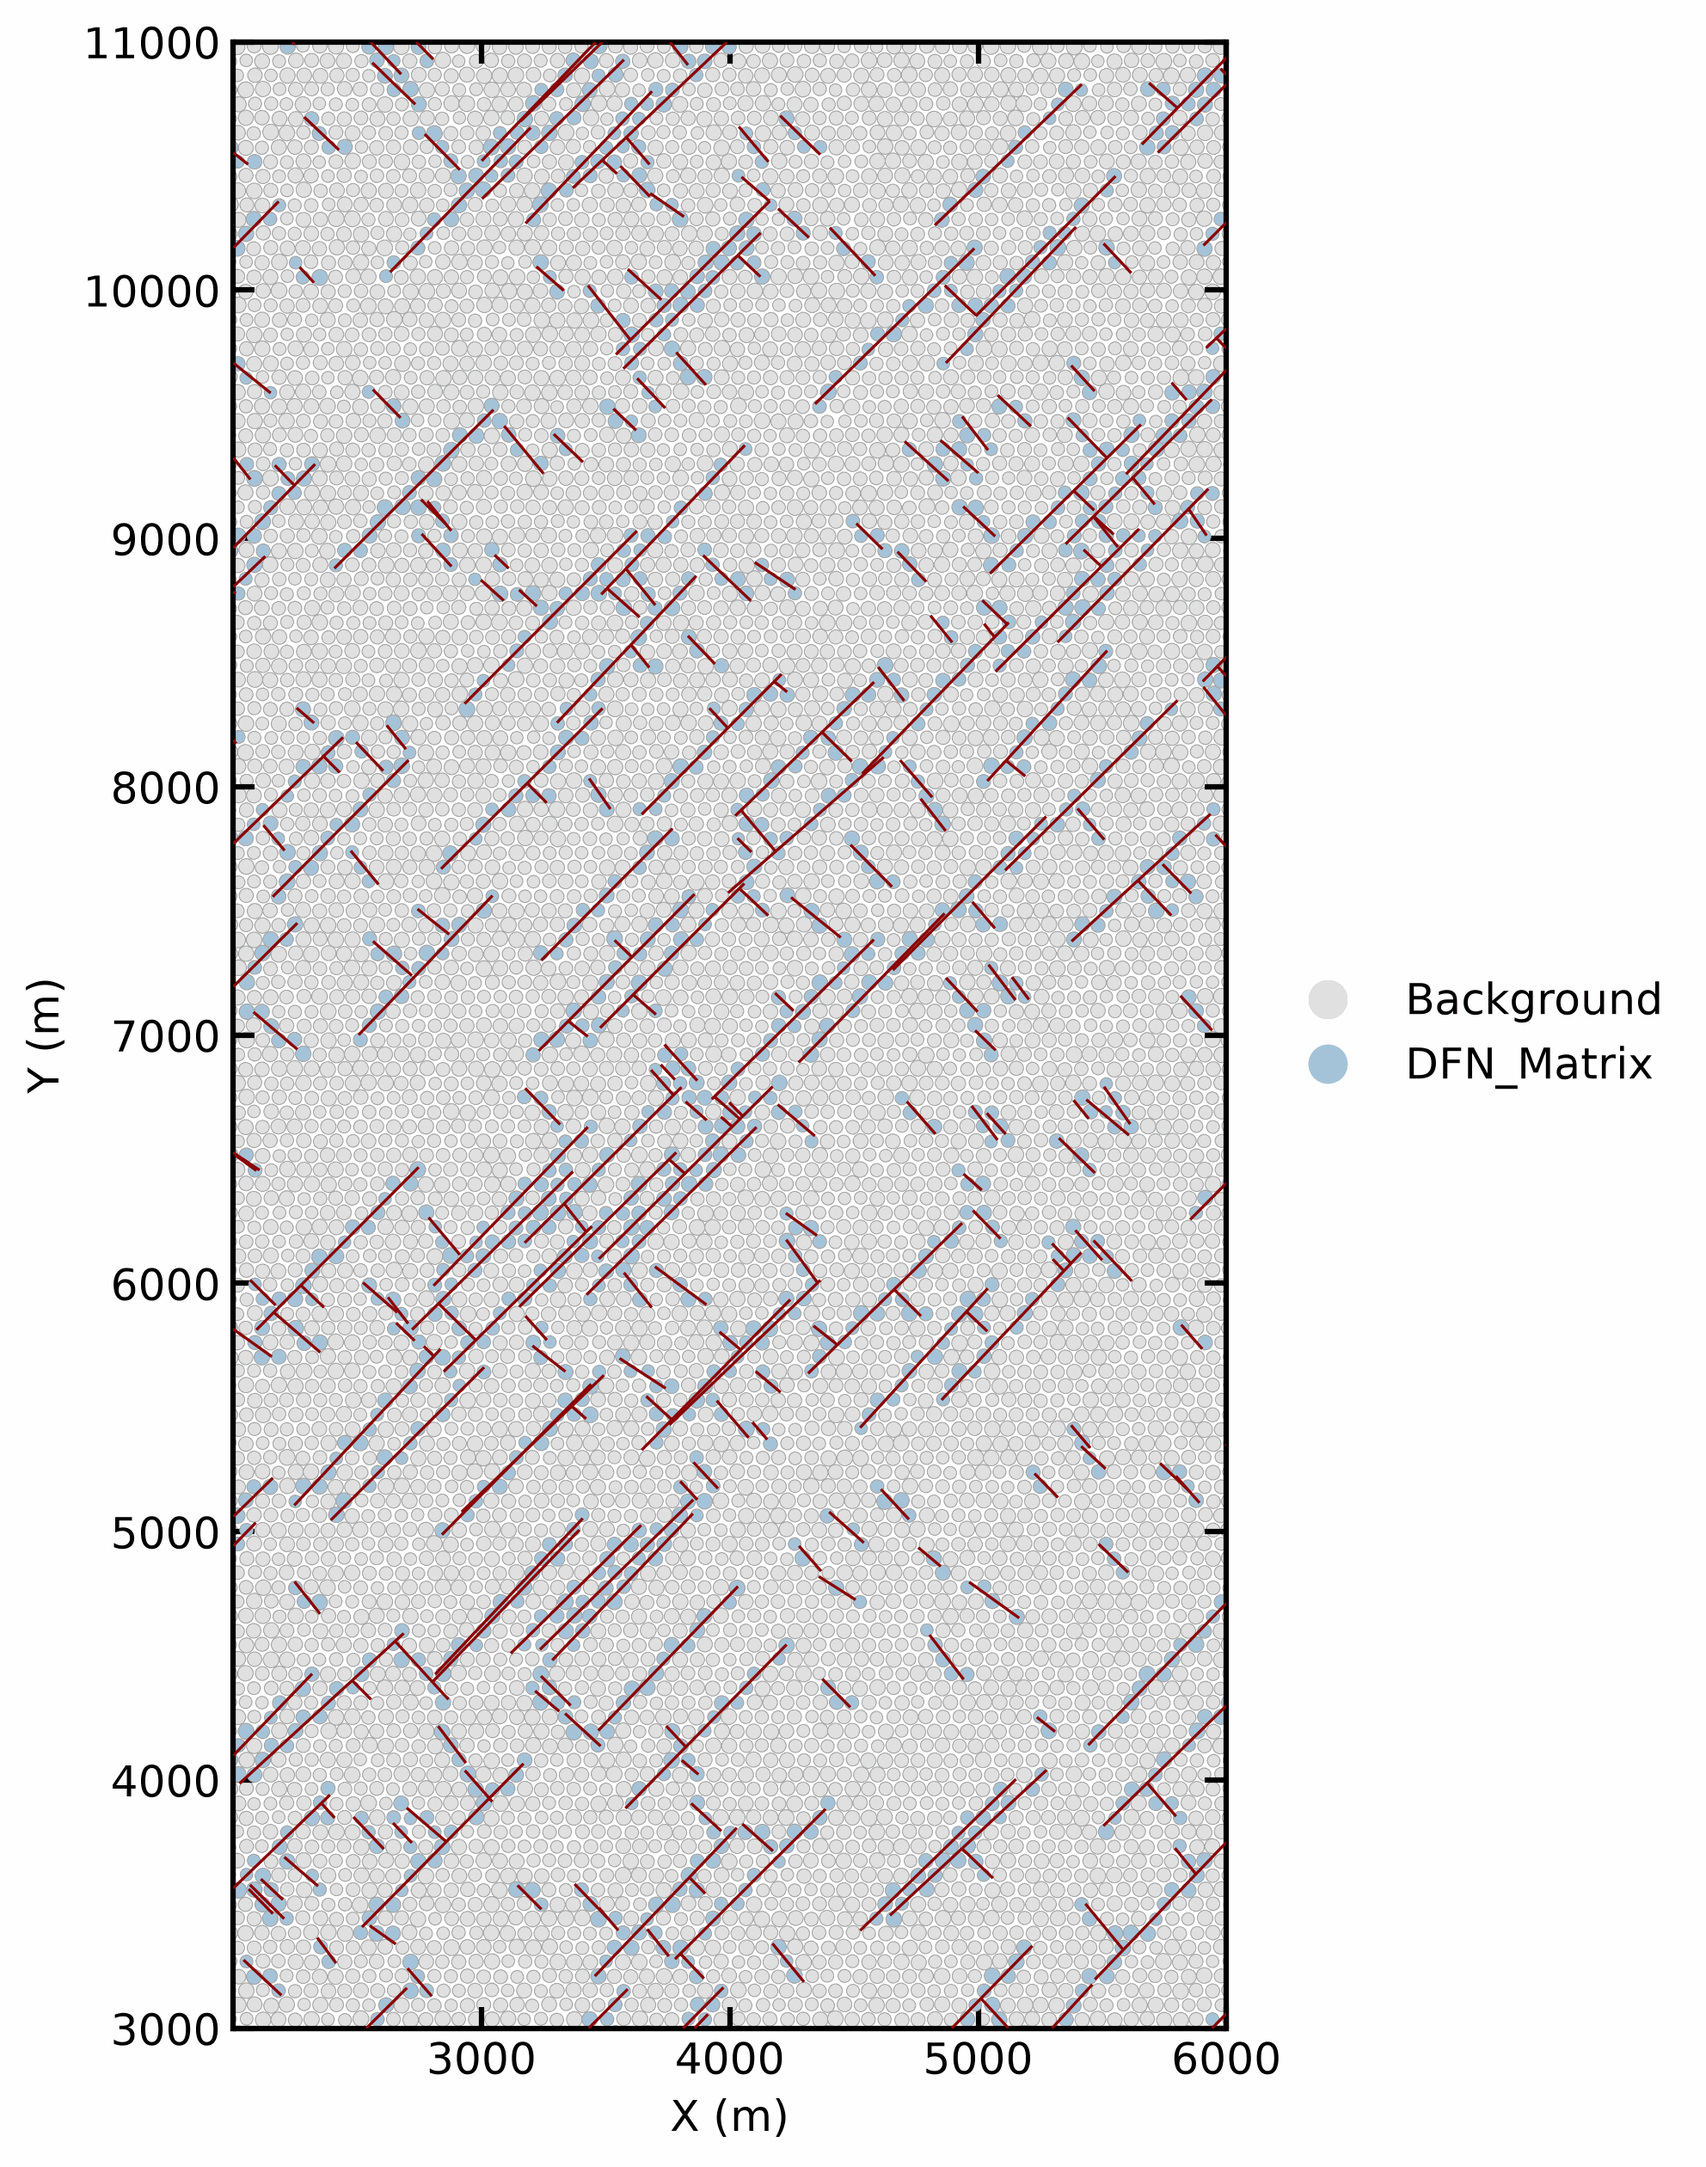
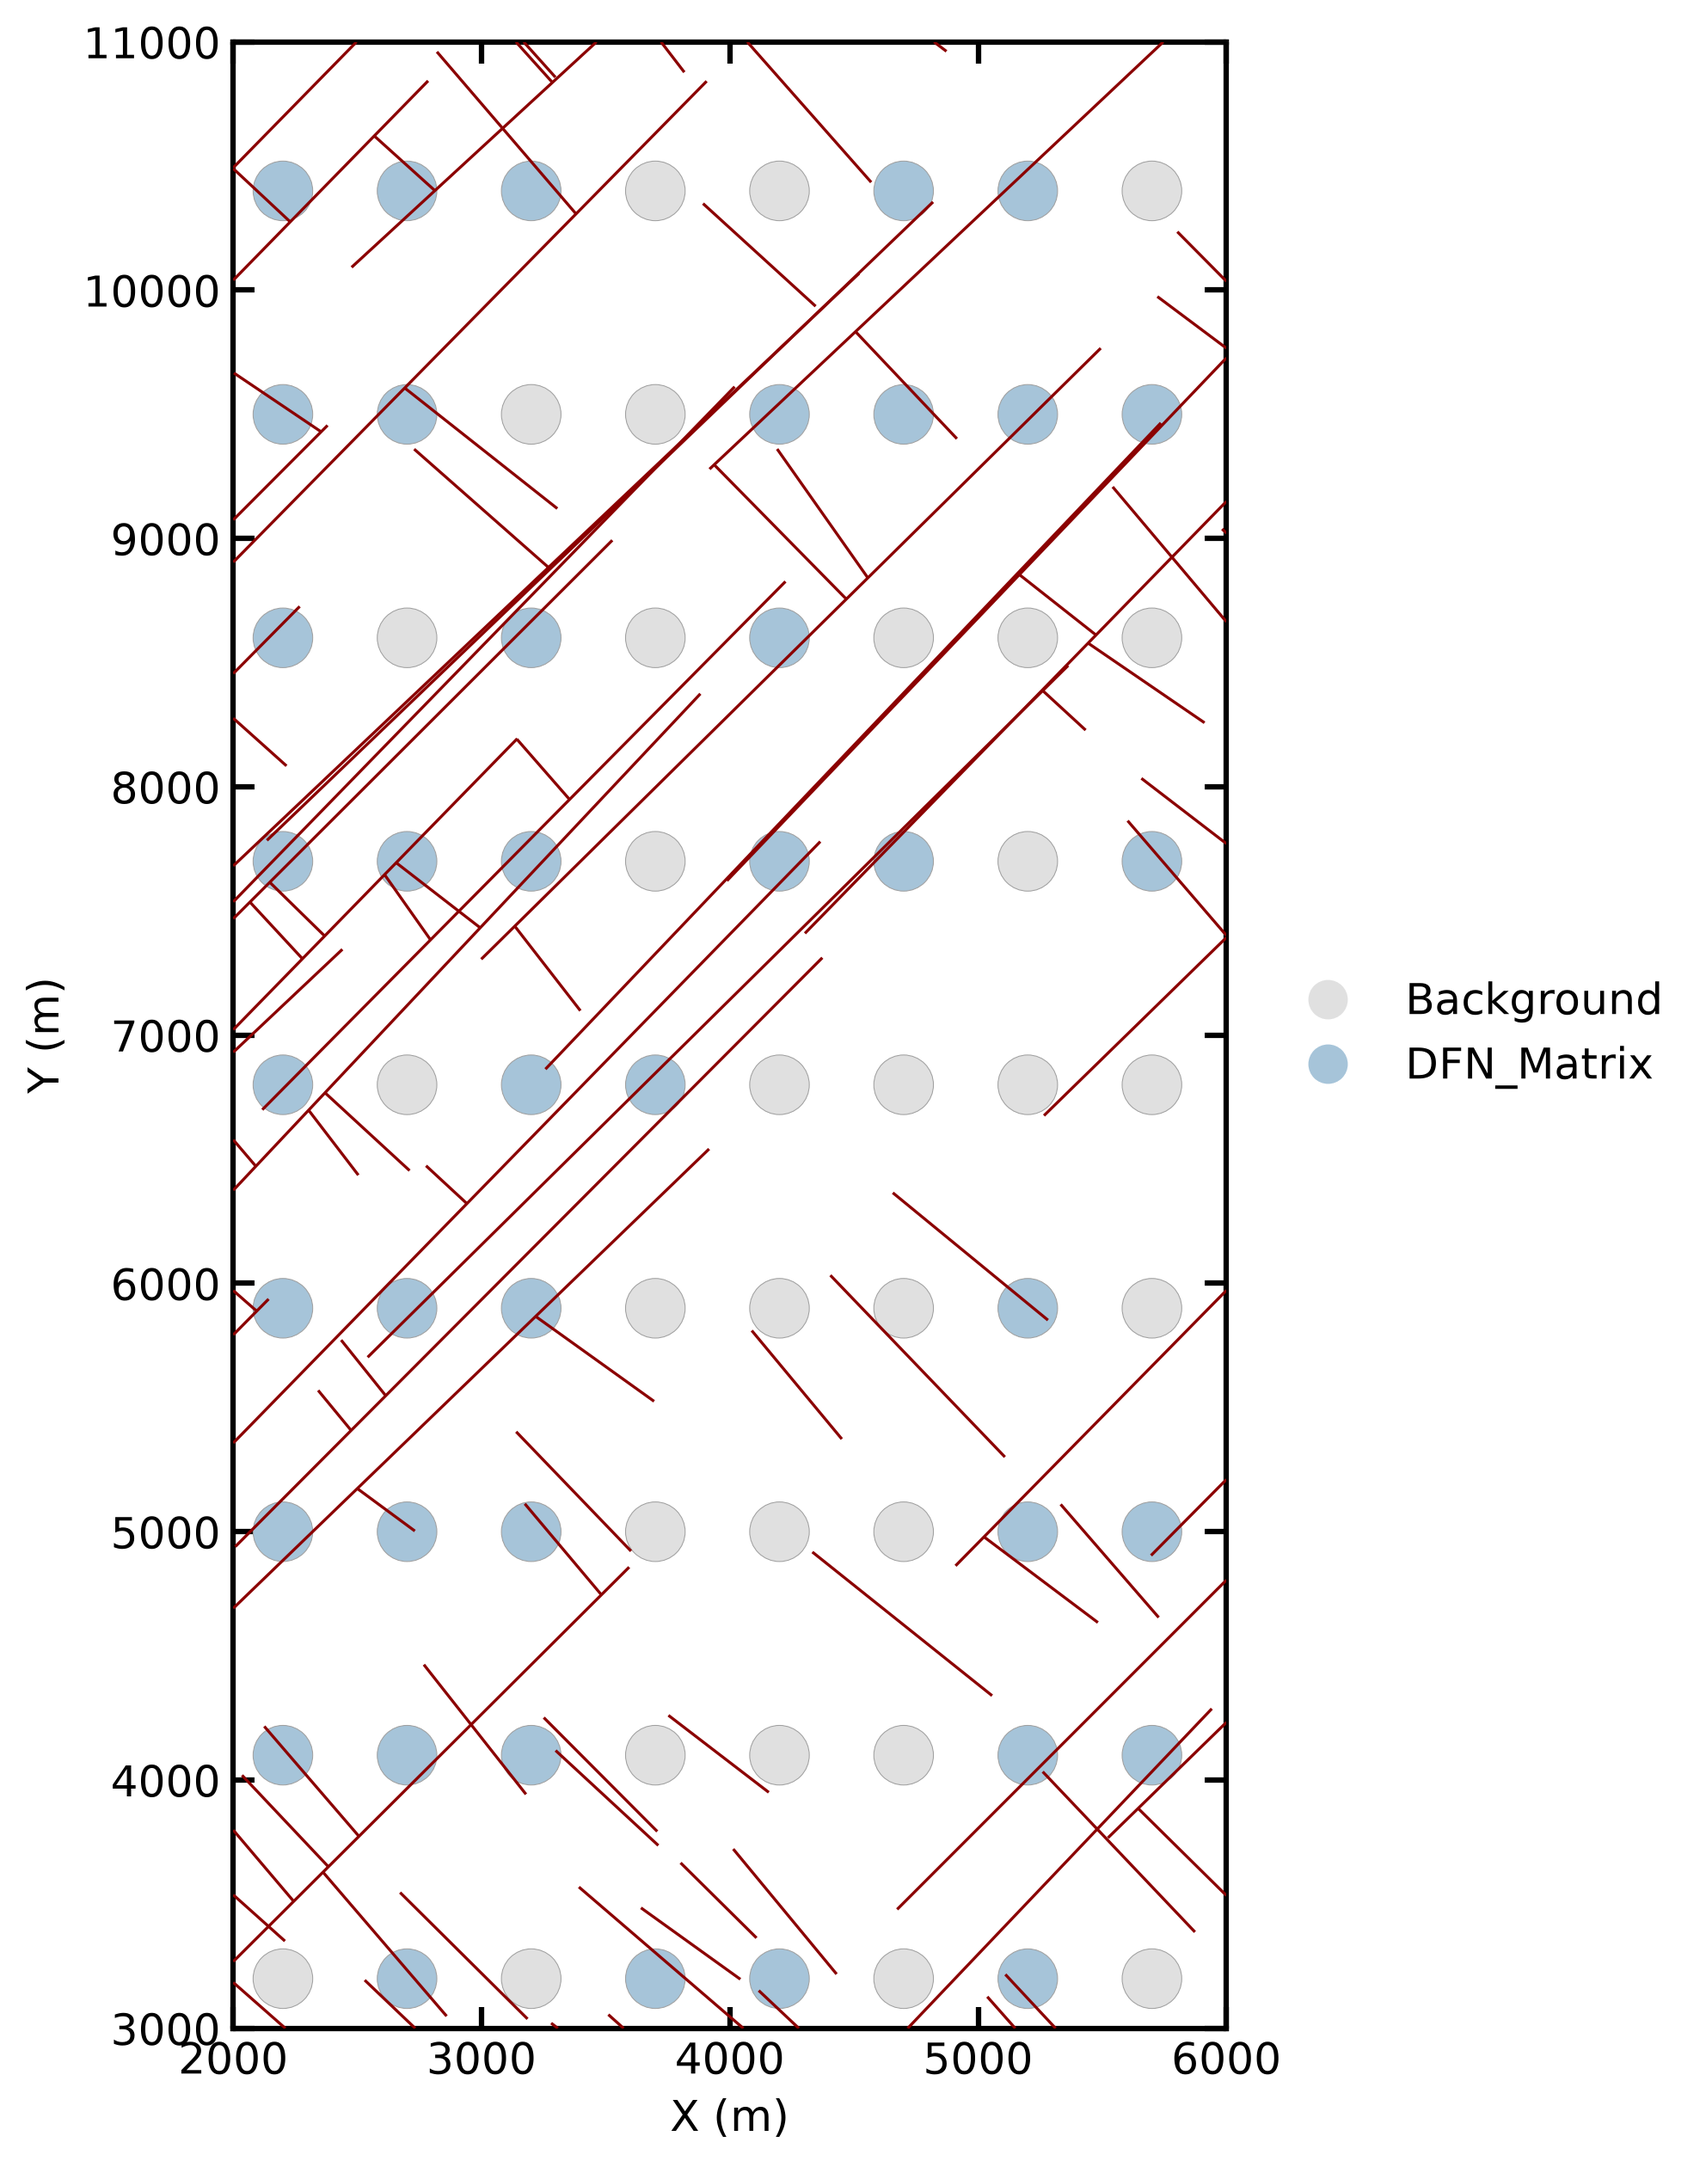
docs: add runnable synthetic demo and data format guide
Document the input layout, isolate generated artifacts, and refresh the CLI-generated synthetic preview for the recommended workflow.

diff --git a/docs/data-format.md b/docs/data-format.md
@@ -1,0 +1,102 @@
+# `ini_xyr.dat` data format
+
+`ini_xyr.dat` is the particle-coordinate input consumed by ZDEM_DFN. The
+parser is intentionally small and follows the format already used by the
+original engine.
+
+## Particle records
+
+A particle record is a non-empty line with at least three whitespace-separated
+fields whose first three fields can be parsed as floating-point numbers:
+
+```text
+x y r
+```
+
+- `x`: particle center X coordinate
+- `y`: particle center Y coordinate
+- `r`: particle radius
+
+The program uses these values as supplied. Coordinate and radius units are
+defined by the upstream ZDEM model convention; ZDEM_DFN performs **no unit
+conversion**.
+
+Additional fields are accepted during parsing but are ignored. This makes
+files with an existing trailing tag readable. When ZDEM_DFN writes tagged
+output, the tag is appended after a tab, for example:
+
+```text
+2.200000000000e+03  3.200000000000e+03  1.200000000000e+02\tDFN_Matrix
+```
+
+## Other line types
+
+- Blank lines are preserved as blank lines.
+- Non-blank lines whose first three fields are not all numeric are preserved as
+  header/metadata lines.
+- There is no required header syntax. Comment lines beginning with `#` are a
+  convenient convention and are preserved verbatim.
+- A file with no valid particle records is rejected by the CLI.
+
+## Minimum valid file
+
+```text
+# Synthetic demo data (not laboratory measurements)
+2.200000000000e+03  3.200000000000e+03  1.200000000000e+02
+```
+
+The bundled `examples/demo_case/ini_xyr.dat` is a short, fully synthetic
+fixture for installation and pipeline checks. It is not a measured specimen
+and must not be used as experimental evidence.
+
+## Directory layout
+
+Single-case input:
+
+```text
+case/
+└── ini_xyr.dat
+```
+
+Run it with the recommended safe interface:
+
+```bash
+python -m zdem_dfn \
+  --input case \
+  --output outputs/case \
+  --seed 42
+```
+
+The output directory is created automatically and contains:
+
+```text
+outputs/case/
+├── ini_xyr_dfn.dat
+└── dfn_preview.png
+```
+
+The original `case/ini_xyr.dat` is not modified. In compatibility `--dirs`
+mode, tagged files are written beside each source by default and the preview
+path is controlled by `--out`. Use `--in-place` only with
+the legacy interface when deliberately choosing to overwrite the source file. `--dry-run` checks the input and prints the planned paths without
+creating the output directory or any artifact.
+
+## Multiple conditions
+
+The compatibility interface accepts multiple case directories:
+
+```bash
+python -m zdem_dfn --dirs case_a case_b --out outputs/preview.png --seed 42
+```
+
+Each source directory receives its tagged file next to its input by default.
+Use `--suffix` to change the tagged filename, or `--in-place` to explicitly
+restore the legacy overwrite behavior. The `--input/--output` interface is
+intentionally limited to one case so its output directory remains unambiguous.
+
+## Reports
+
+`--stats PATH` writes network statistics (`.csv` selects CSV; other suffixes
+select Markdown). `--rose PATH` writes a fracture-strike rose diagram. Both
+are regular output artifacts and are skipped, like all other writes, during
+`--dry-run`.

diff --git a/docs/usage.md b/docs/usage.md
@@ -3,6 +3,10 @@
 ## CLI
 
 ```
+python -m zdem_dfn --input DIR --output DIR [--seed SEED]
+                   [--dry-run] [--verbose] [--stats PATH] [--rose PATH]
+
+# compatibility batch interface:
 python -m zdem_dfn [--dirs DIR [DIR ...]] [--out PATH] [--seed SEED]
                    [--suffix STR] [--in-place] [--dry-run] [--stats PATH] [--rose PATH] [--version]
 ```
@@ -15,19 +19,26 @@ because it would silently overwrite the source.
 
 | Flag | Meaning |
 |---|---|
-| `--dirs DIR [DIR …]` | Target folders, each containing an `ini_xyr.dat` (default: `config.TARGET_DIRECTORIES`) |
-| `--out PATH` | Preview image output path (default `dfn_preview.png` in the current directory) |
+| `--input DIR` | Recommended single-case input folder containing `ini_xyr.dat`; use with `--output` |
+| `--output DIR` | Recommended output folder; created automatically and receives all artifacts |
+| `--dirs DIR [DIR …]` | Compatibility batch interface for one or more folders |
+| `--out PATH` | Compatibility preview image output path |
 | `--seed N` | RNG seed — same seed, same network |
 | `--suffix STR` | Output filename suffix (default `_dfn` → `ini_xyr_dfn.dat`); empty string requires `--in-place` |
 | `--in-place` | Overwrite the source file (legacy behavior; off by default) |
-| `--dry-run` | Parse and generate only; write nothing, render nothing |
-| `--stats PATH` | Write a network statistics report: actual-vs-target p21 (total trace length / area vs `sum(FRACTURE_SETS[].p21)`), a dip histogram binned every 10°, a 10-bin trace-length histogram, and optionally particle tag counts. `.csv` suffix → CSV, otherwise Markdown. Works with `--dry-run` |
-| `--rose PATH` | Write a polar rose diagram (PNG) of fracture strike, 0–180° in 10° bins, dark-red bars matching the preview palette. Works with `--dry-run` |
+| `--dry-run` | Validate and print the plan; write no files or images |
+| `--stats PATH` | Write a network statistics report (`.csv` → CSV, otherwise Markdown); skipped during `--dry-run` |
+| `--rose PATH` | Write a polar rose diagram (PNG) of fracture strike; skipped during `--dry-run` |
 | `--version` | Print the version and exit |
 
 Exit codes: `0` success, `1` configuration error (no directories / missing
 reference file / no valid particles), `2` invalid argument combination (empty
 `--suffix` without `--in-place`).
+
+## Input and output format
+
+See [Data format](data-format.md) for the supported `ini_xyr.dat` records,
+units, directory layout, output files and synthetic-demo disclaimer.
 
 ## Fracture-set configuration
 

diff --git a/docs/index.md b/docs/index.md
@@ -17,12 +17,16 @@ pip install git+https://github.com/Phoenix0531-sudo/ZDEM_DFN.git
 ## Quick start
 
 ```bash
-# batch-process specimen folders (each containing ini_xyr.dat):
-python -m zdem_dfn --dirs path/to/spec1 path/to/spec2 --seed 42
+# bundled synthetic demo (not laboratory data):
+python -m zdem_dfn --input examples/demo_case --output outputs/demo_case --seed 42
 
-# inspect without writing anything:
-python -m zdem_dfn --dirs path/to/spec1 --dry-run
+# inspect without creating output:
+python -m zdem_dfn --input examples/demo_case --output outputs/demo_case --dry-run
 ```
+
+The output directory contains `ini_xyr_dfn.dat` and `dfn_preview.png`; the
+source file is preserved. See [Usage](usage.md) and [Data format](data-format.md)
+for the compatibility batch interface and input details.
 
 All images on this site are generated from **synthetic demo data** —
 never laboratory measurements.
@@ -30,4 +34,5 @@ never laboratory measurements.
 ## Start here
 
 - [Usage](usage.md) — CLI reference, fracture-set configuration, examples.
+- [Data format](data-format.md) — `ini_xyr.dat` fields, units and output layout.
 - [Code reference](reference/zdem_dfn/config.md) — auto-generated API docs.

diff --git a/examples/README.md b/examples/README.md
@@ -15,8 +15,8 @@ What it does:
 1. writes a jittered, staggered particle assembly as `ini_xyr.dat`
    (`x y r` rows in scientific notation — the exact format the engine
    parses), spanning the engine's CROP window;
-2. runs the real CLI (`python -m zdem_dfn --dirs … --out … --seed …`)
-   over it with a fixed seed (20240613), producing `dfn_preview.png`;
+2. runs the real CLI over it with a fixed seed (20240613), producing
+   `dfn_preview.png` and a tagged output file in the temporary output folder;
 3. palette-optimizes the PNG for docs embedding (deterministic, ~0.5 MB).
 
 Re-running with the same package version reproduces the committed image
